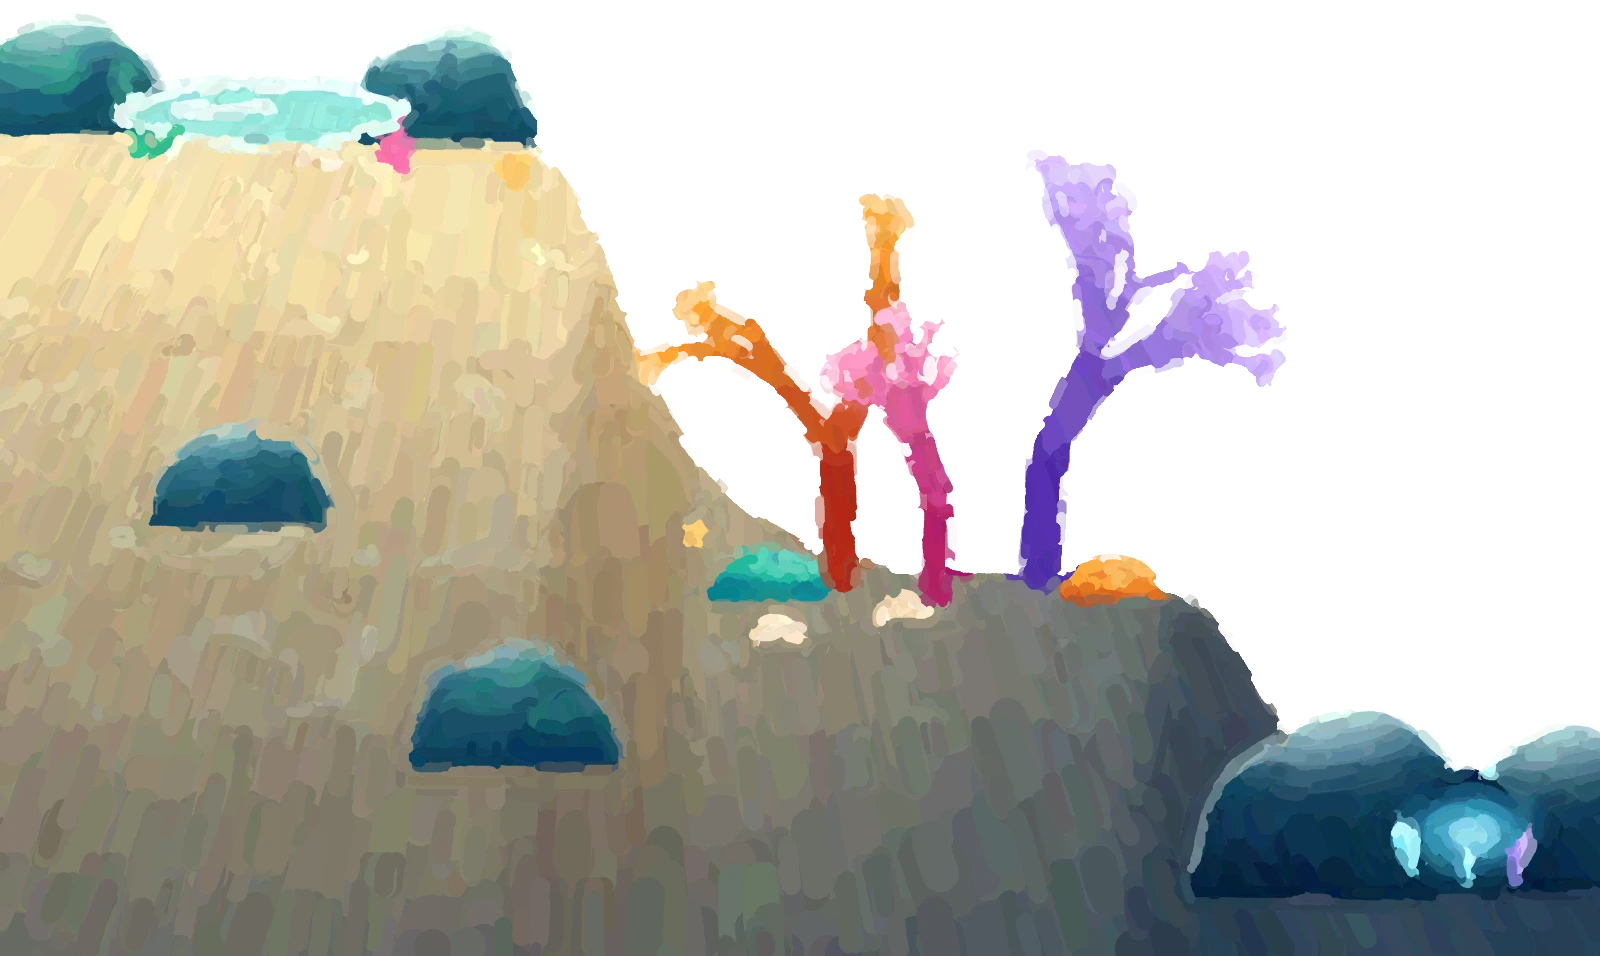
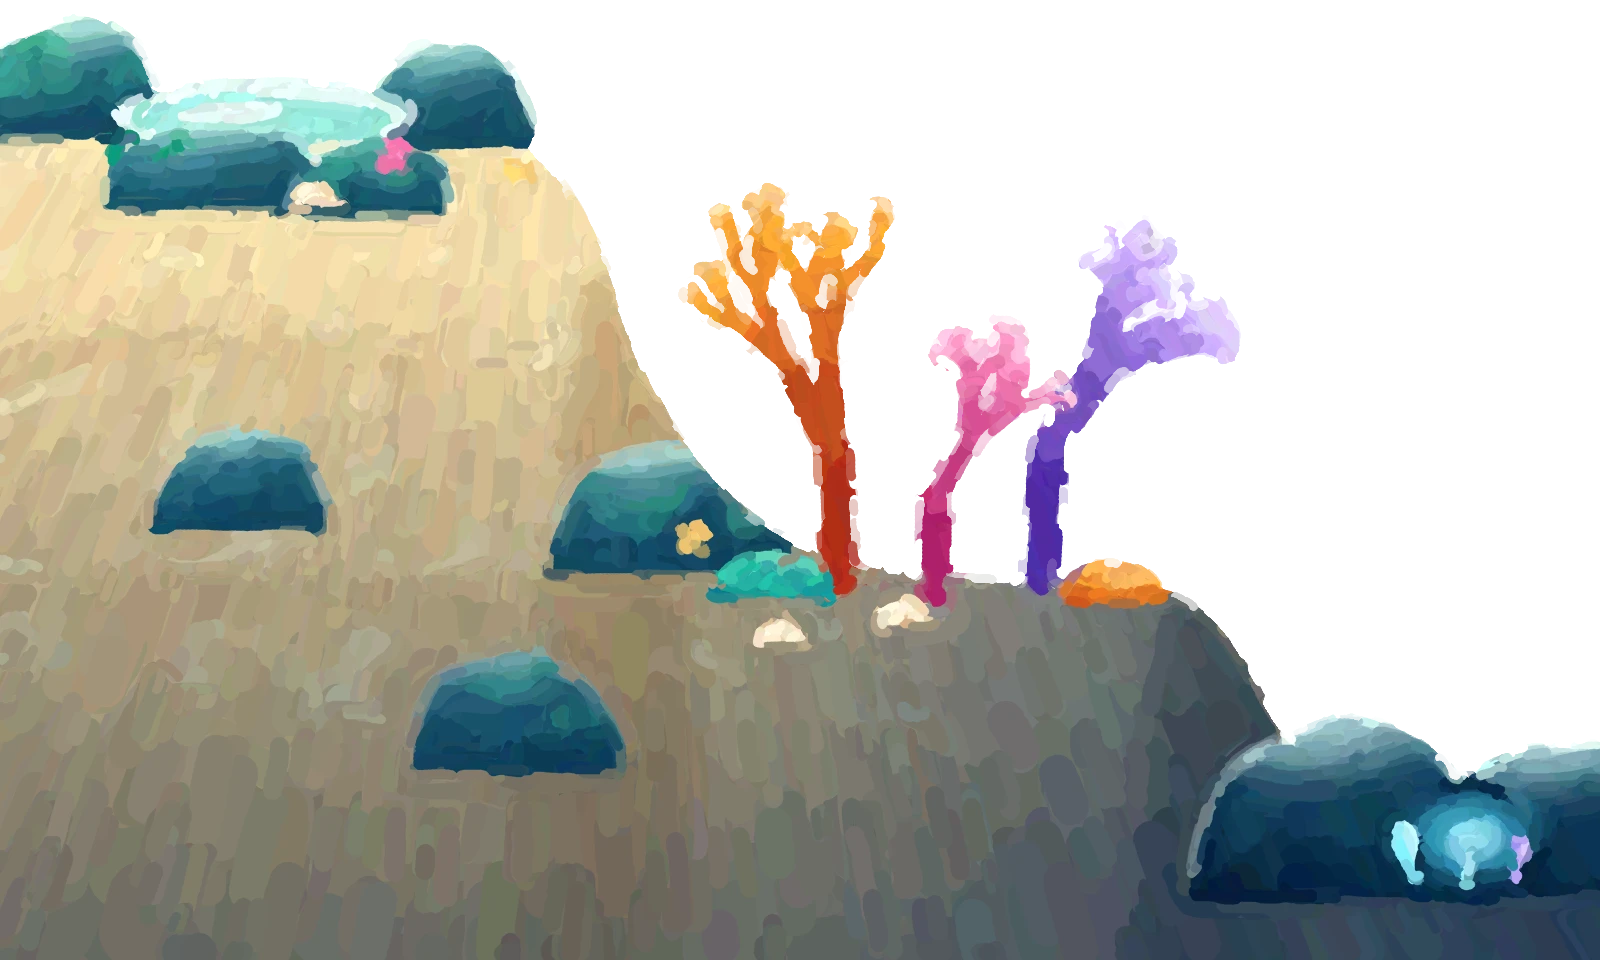
Reef map judged by Gemini; its five notes applied
Verdict: reef and deep read as their places; the tide pool read as 'a
floating blue saucer'. Fixes:
- A low rock lip painted across the pool's front edge, so the water sits
  in a basin; the crab moved onto the rim, legs touching the pool.
- A structural corner boulder where the slope drops to the reef ledge, so
  the beige face reads as stepped rock rather than a sand curtain.
- Trail dots 11 -> 17px and rerouted: they now swoop from under the Tide
  Pool label through open water down to the Coral Reef label.
- Labels pulled off the art: Tide Pool left onto the shelf mass, Coral
  Reef down-left off the mermaid's tail and the coral bases.

diff --git a/app/Mermath/Screens/ReefMapScreen.swift b/app/Mermath/Screens/ReefMapScreen.swift
@@ -37,7 +37,7 @@ struct ReefMapScreen: View {
                     FishSwim(t: t, travel: 940, bobDown: 5, bobUp: 6, duration: 36, delay: -18, scale: s)
                         .stage(x: 830, y: 104, w: 30, h: 19)
                     ArtImage("scenes/reef-map/seabed.png")
-                        .stage(x: 0, y: 122, w: 800, h: 478)
+                        .stage(x: 0, y: 120, w: 800, h: 480)
                     // The grass spans pool to ledge, so it holds still here
                     ArtImage("scenes/reef-map/seagrass.png")
                         .stage(x: 68, y: 170, w: 538, h: 260)
@@ -48,14 +48,15 @@ struct ReefMapScreen: View {
                 }
                 .bleed()
 
-                // Pearl trail down the slope twinkles; the locked drop sits still
-                ForEach(Array([(218.0, 238.0), (248, 262), (278, 288), (308, 314)].enumerated()), id: \.offset) { i, dot in
+                // Pearl trail: pool to reef it swoops through open water and
+                // twinkles; the locked drop down the cliff sits dim and still
+                ForEach(Array([(234.0, 300.0), (272, 340), (310, 380), (346, 418), (378, 450)].enumerated()), id: \.offset) { i, dot in
                     TrailDot(opacity: Wave.alternate(t, from: 0.55, to: 1, duration: 1, delay: Double(i) * 0.25), scale: s)
-                        .stage(x: dot.0, y: dot.1, w: 11, h: 11)
+                        .stage(x: dot.0, y: dot.1, w: 17, h: 17)
                 }
-                ForEach(Array([(584.0, 430.0), (610, 452), (636, 474), (660, 494)].enumerated()), id: \.offset) { _, dot in
+                ForEach(Array([(578.0, 444.0), (606, 464), (634, 482), (660, 498)].enumerated()), id: \.offset) { _, dot in
                     TrailDot(opacity: 0.4, scale: s, shadow: false)
-                        .stage(x: dot.0, y: dot.1, w: 11, h: 11)
+                        .stage(x: dot.0, y: dot.1, w: 17, h: 17)
                 }
 
                 // Tide Pool, in the shore shelf at the surface: the crab waits
@@ -70,9 +71,9 @@ struct ReefMapScreen: View {
                 CrabView(t: t, scale: s, blinkCycle: 5.1, bobTo: -3)
                     .frame(width: 104 * s, height: 88 * s)
                     .allowsHitTesting(false)
-                    .stage(x: 16, y: 86, w: 104, h: 88)
+                    .stage(x: 34, y: 94, w: 104, h: 88)
                 ZoneLabel(name: "Tide Pool", subtitle: "Find the number", scale: s)
-                    .stage(x: 140, y: 246, w: 0, h: 0)
+                    .stage(x: 120, y: 262, w: 0, h: 0)
 
                 // Coral Reef on the mid-water ledge: the picked sister floats
                 // over the coral
@@ -88,7 +89,7 @@ struct ReefMapScreen: View {
                     .allowsHitTesting(false)
                     .stage(x: 396, y: 148, w: 158, h: 181)
                 ZoneLabel(name: "Coral Reef", subtitle: "Adding to 10", scale: s)
-                    .stage(x: 474, y: 448, w: 0, h: 0)
+                    .stage(x: 428, y: 474, w: 0, h: 0)
 
                 // Deep Sea, down the cliff in the dark corner: padlocked until
                 // two clean dives open it

diff --git a/art-pipeline/scenes_v2.py b/art-pipeline/scenes_v2.py
@@ -182,6 +182,8 @@ def scene_map_layers():
           f'<path d="M-20 300 C90 290 190 296 260 310 M-20 420 C100 408 220 416 300 432 M20 530 C140 518 280 526 380 544" '
           f'fill="none" stroke="#c9a06c" stroke-width="7" opacity=".5" filter="url(#b6)"/>'
           + boulder(s, 120, 372, 88, 40, moss=False) + boulder(s, 258, 492, 104, 48)
+          # a structural corner where the slope drops to the reef ledge
+          + boulder(s, 336, 394, 122, 54)
           # depth shading: everything right of the second cliff sinks into navy
           + f'<rect width="{W}" height="{H}" fill="{s.lin([(.4, "#0b2e57", 0), (.72, "#0b2e57", .4), (1, "#0b2e57", .68)], x1=0, y1=0, x2=1, y2=0)}"/>'
           f'<rect width="{W}" height="{H}" fill="{s.lin([(.42, "#07284a", 0), (1, "#07284a", .55)], x1=0, y1=0, x2=0, y2=1)}"/></g>')
@@ -190,7 +192,9 @@ def scene_map_layers():
     s.add(boulder(s, 36, 176, 96, 46) + boulder(s, 224, 180, 86, 42, moss=False))
     s.add('<ellipse cx="132" cy="178" rx="74" ry="17" fill="#e9fffa"/><ellipse cx="132" cy="180" rx="64" ry="12.5" fill="#9ee9de"/>'
           '<ellipse cx="114" cy="176" rx="26" ry="4.5" fill="#ffffff" opacity=".75"/>')
-    s.add(seastar(198, 196, 10, '#ff7eb6', -80) + grass(r, 70, 200, 4, 12, 26, '#1f9c7c', '#3fc79a') + shell_on_sand(158, 206))
+    # a low rock lip ACROSS the pool's front edge, so the water sits in a basin
+    s.add(boulder(s, 108, 212, 110, 32, moss=False) + boulder(s, 186, 214, 76, 26))
+    s.add(seastar(198, 196, 10, '#ff7eb6', -80) + grass(r, 70, 200, 4, 12, 26, '#1f9c7c', '#3fc79a') + shell_on_sand(158, 224))
     s.add(seastar(258, 206, 8, '#ffd27a', 24))
     # 2. CORAL REEF on the mid-water ledge
     s.add(coral(r, 420, 408, '#b23a2a', '#ffb347', 150, 4, 16, -93) + coral(r, 520, 410, '#5a3aa8', '#d2b4ff', 160, 4, 16, -86) + coral(r, 468, 418, '#b03070', '#ff9ecb', 116, 4, 14, -90))
